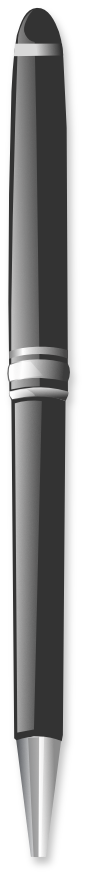
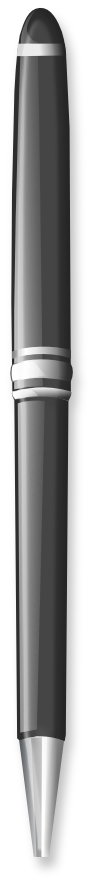
Updated pen

Changed region(s): [[0.0682, 0.0, 0.8864, 0.9818]]

diff --git a/index.html b/index.html
@@ -3,8 +3,8 @@
 
 <head>
     <title>Classeur</title>
-	<link rel="canonical" href="http://classeur.io">
-	<link rel="shortcut icon" href="images/icon.ico" type="image/x-icon">
+    <link rel="canonical" href="http://classeur.io">
+    <link rel="shortcut icon" href="images/icon.ico" type="image/x-icon">
     <link rel="stylesheet" href="https://maxcdn.bootstrapcdn.com/font-awesome/4.3.0/css/font-awesome.min.css">
     <style>
     @font-face {
@@ -152,14 +152,14 @@
     .wrapper-1 {
         position: absolute;
         width: 640px;
-        height: 2000px;
+        height: 1200px;
         left: 50%;
         margin-left: -350px;
     }
     .wrapper-1.translate {
-        -webkit-transform: translateY(2000px);
-        -ms-transform: translateY(2000px);
-        transform: translateY(2000px);
+        -webkit-transform: translateY(1200px);
+        -ms-transform: translateY(1200px);
+        transform: translateY(1200px);
     }
     .wrapper-2 {
         position: absolute;
@@ -206,8 +206,8 @@
     }
     .pen {
         position: absolute;
-        top: -45px;
-        left: 55px;
+        top: -40px;
+        left: 52px;
     }
     .margin {
         position: absolute;
@@ -225,14 +225,14 @@
         overflow: auto;
     }
     .scroller::before {
-		position: absolute;
-		top: 30px;
-		left: 135px;
-		width: 330px;
-		height: 110px;
-		content: "";
-		background: url(images/logo.png);
-		background-size: 330px 110px;
+        position: absolute;
+        top: 30px;
+        left: 135px;
+        width: 330px;
+        height: 110px;
+        content: "";
+        background: url(images/logo.png);
+        background-size: 330px 110px;
     }
     .editor {
         color: rgba(0, 0, 0, 0.73);
@@ -422,12 +422,13 @@
 
     var wrapperElt = document.querySelector('.wrapper-1');
     var scrollerElt = document.querySelector('.scroller');
+
     function resize() {
-    	var height = window.innerHeight * 3 / 4 | 0;
-    	height = height < 350 ? 350 : height > 800 ? 800 : height;
-    	var top = window.innerHeight - height - 8;
-    	scrollerElt.style.height = height + 'px';
-    	wrapperElt.style.top = top + 'px';
+        var height = window.innerHeight * 3 / 4 | 0;
+        height = height < 350 ? 350 : height > 800 ? 800 : height;
+        var top = window.innerHeight - height - 8;
+        scrollerElt.style.height = height + 'px';
+        wrapperElt.style.top = top + 'px';
     }
     resize();
     window.onresize = resize;
